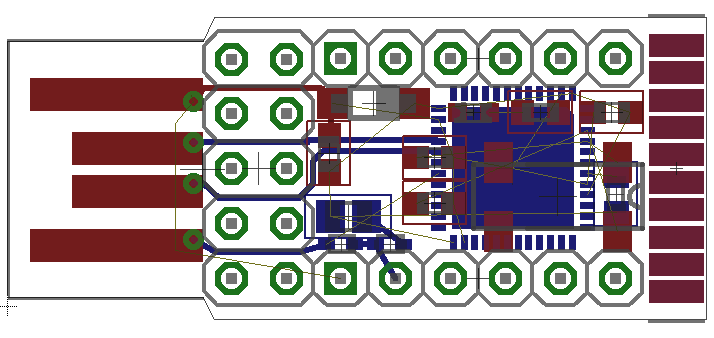
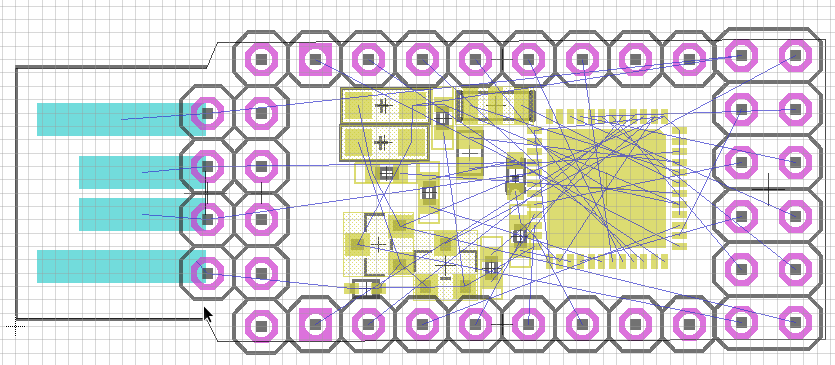
super hacky layout

diff --git a/scripts/build_board_docs.py b/scripts/build_board_docs.py
@@ -74,7 +74,7 @@ def dump_pin(pin, pinstrip):
          not_five_volt = True
 
       writeHTML('    <DIV class="'+pinstrip+'pin pin">');
-      pinHTML = '     <SPAN class="pinname">'+pin+"</SPAN>";
+      pinHTML = '     <SPAN class="pinname">'+pin+".</SPAN>";
       pinHTML2 = '';
 
       if not_five_volt:
@@ -199,13 +199,21 @@ writeHTML("""
 }
 
 
+.line {
+  height:2px;background-color:red;position:absolute;
+}
+
+.line:hover {
+  background-color:#FF00FF;
+}
+
 """);
 for pinstrip in board.board:
   writeHTML("   #"+pinstrip+" { position: absolute; }")
   writeHTML("   ."+pinstrip+"pin { white-space: nowrap; }")
 writeHTML(board.board_css)
-writeHTML("  </STYLE>")
-writeHTML(""""
+writeHTML("  </STYLE>"+'<script src="http://code.jquery.com/jquery-1.11.0.min.js"></script>')
+writeHTML("""
   <SCRIPT type="text/javascript"> 
     function showTT(ttid) { 
       var e = document.getElementById(ttid);
@@ -215,6 +223,25 @@ writeHTML(""""
       var e = document.getElementById(ttid);
       e.style.display = "none";
     }
+function drawLine(x1, y1, x2, y2, hover) {
+    if (x2 < x1) {
+        var temp = x1;
+        x1 = x2;
+        x2 = temp;
+        temp = y1;
+        y1 = y2;
+        y2 = temp;
+    }
+    var line = $('<div class="line" alt="'+hover+'"></div>').appendTo($("body"));
+    var length = Math.sqrt((x1 - x2) * (x1 - x2) + (y1 - y2) * (y1 - y2));
+    line.css('width', length + "px");
+    var angle = Math.atan((y2 - y1) / (x2 - x1));
+    line.css('top', y1 + 0.5 * length * Math.sin(angle) + "px");
+    line.css('left', x1 - 0.5 * length * (1 - Math.cos(angle)) + "px");
+    line.css('-moz-transform', "rotate(" + angle + "rad)");
+    line.css('-webkit-transform', "rotate(" + angle + "rad)");
+    line.css('-o-transform', "rotate(" + angle + "rad)");
+ }
   </SCRIPT>
 """)
 writeHTML(" </HEAD>")
@@ -251,8 +278,6 @@ for pinstrip in board.board:
       usedpins.append(pin)
       dump_pin(pin, pinstrip)
     writeHTML('   </DIV>')    
-writeHTML('  </DIV>')
-writeHTML('  </DIV>')
 
 otherpins=0
 for pinstruct in pins:
@@ -260,15 +285,56 @@ for pinstruct in pins:
   if not pin in usedpins: 
     otherpins = otherpins + 1
 
+writeHTML('  </DIV id="board">')
+writeHTML('  </DIV id="boardcontainer">')
+
 if otherpins>0:
   writeHTML('  <DIV id="otherpins">')
   writeHTML('   <H2>Pins not on connectors</H2>')
   for pinstruct in pins:
-    pin = pinstruct["name"]
+    pin = pinstruct["name"]        
     if not pin in usedpins:    
       dump_pin(pin, "otherpins")
   writeHTML('  </DIV>')
 writeHTML('  <P></P>')
+
+writeHTML('<SCRIPT type="text/javascript"> $(function() {');
+writeHTML('var x = $("#board").offset().left+500;');
+writeHTML('var y = $("#board").offset().top+200;');
+d = 12
+writeHTML('drawLine(x+'+str(-5*d)+',y+'+str(-5*d)+',x+'+str(5*d)+',y+'+str(-5*d)+');');
+writeHTML('drawLine(x+'+str(5*d)+',y+'+str(-5*d)+',x+'+str(5*d)+',y+'+str(5*d)+');');
+writeHTML('drawLine(x+'+str(5*d)+',y+'+str(5*d)+',x+'+str(-5*d)+',y+'+str(5*d)+');');
+writeHTML('drawLine(x+'+str(-5*d)+',y+'+str(5*d)+',x+'+str(-5*d)+',y+'+str(-5*d)+');');
+
+for pinstrip in board.board:
+  if pinstrip[0]!='_':
+    for pin in board.board[pinstrip]:       
+      p = "$('.pinname:contains(\""+pin+".\")').offset()";
+      if pin in pinmap:
+        pin = pinmap[pin];      
+      pininfo = pinutils.findpin(pins, pin, False)
+      if "UQFN48" in pininfo["csv"]:
+        n = int(pininfo["csv"]["UQFN48"])-1        
+        n = (n+12) % 48
+        if n<12:
+          px = (n-6)*d
+          py = -6*d
+        elif n<24:
+          px = 6*d
+          py = ((n-12)-6)*d
+        elif n<36:
+          px = (6-(n-24))*d
+          py = 6*d
+        else:
+          px = -6*d
+          py = (6-(n-36))*d
+
+        writeHTML('drawLine(x+'+str(px)+',y+'+str(py)+','+p+'.left,'+p+'.top, "'+pin+'");');
+
+
+writeHTML('});</SCRIPT>');
+
 writeHTML(" </BODY>")
 writeHTML("</HTML>")
 

diff --git a/boards/ESPRUINIBOARD_R1_0.py b/boards/ESPRUINIBOARD_R1_0.py
@@ -37,14 +37,14 @@ chip = {
 };
 # left-right, or top-bottom order
 board = {
-  'left' : [ 'A1', 'A8', 'B10' ],
-  'left2' : [ 'B5', 'B4', 'B3' ],
-  'top' : [ 'GND', 'VBAT', 'A2', 'A3', 'A5', 'A6', 'A7', 'B0'],
-  'bottom' : [ 'B7', 'B6', 'GND', '3.3', 'A0', 'B15', 'B14', 'B13',  ], 
+  'left' : [ 'GND', 'A10', 'A9', 'A8' ],
+#  'left2' : [ 'GND', 'A12', 'A11', 'VCC' ],
+  'top' : [ '3.3', 'A13', 'A14', 'A15', 'B3', 'B4', 'B5', 'B6', 'B7', 'B8','B9'],
+  'bottom' : [ 'B15', 'B14', 'B13', 'B10', 'B0', 'A7', 'A6', 'A5','A4','A3','A2' ], 
 
-  'right' : ['A13','C13','A15','B1','A4','3.3','VBAT','BOOT0','B2','GND'],
-  'right2' : ['A5','A6','A7','A9','A10','A11','A12','B8','B9','GND'],
-        
+
+  'right2' : ['','','','A1'],
+  'right' : ['C13','','','A0'],        
 };
 devices = {
   'OSC' : { 'pin_in' :  'H0', # checked
@@ -64,8 +64,8 @@ devices = {
 
 board_css = """
 #board {
-  width: 714px;
-  height: 338px;
+  width: 835px;
+  height: 365px;
   top: 200px;
   left : 100px;
   background-image: url(img/ESPRUINIBOARD_R1_0.png);
@@ -75,28 +75,28 @@ board_css = """
 }
 #left {
   top: 105px;
-  right: 500px;  
+  right: 600px;  
 }
 #left2  {
   top: 105px;
-  left: 303px;
+  left: -100px;
 }
 #top {
   bottom: 320px;
-  left: 210px;
+  left: 240px;
 }
 #bottom {
   top: 320px;
-  left: 210px;
+  left: 240px;
 }
 
 #right  {
-  top: 35px;
-  left: 920px;
+  top: 105px;
+  left: 820px;
 }
 #right2  {
-  top: 35px;
-  right: -205px;
+  top: 105px;
+  right: 105px;
 }
 
 .leftpin { height: 48px; }
@@ -104,8 +104,8 @@ board_css = """
 .toppin { width: 48px; }
 .bottompin { width: 48px; }
 
-.rightpin { height: 25px; }
-.right2pin { height: 25px; }
+.rightpin { height: 48px; }
+.right2pin { height: 48px; }
 
 """;
 
